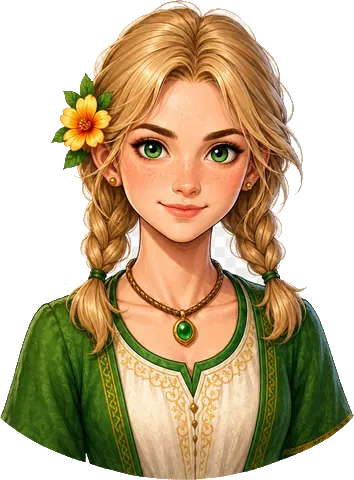
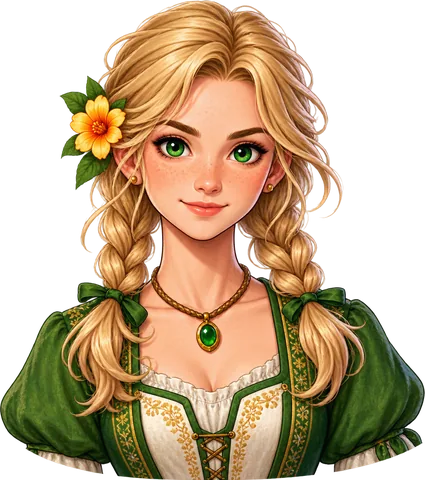
Update Marigold and both orc portraits; fade bust bottoms
New art: Marigold with clean transparency, Brakka as the pot-laden
peddler she is in the text, and Grukha as the grey elder — resolving
the peddler/elder casting properly.

All dialogue portraits now fade out at the bottom via a CSS mask
instead of ending in a hard slice, which fixes the unicorn (whose art
terminates flat mid-neck) and makes every bust blend into the card.

Claude-Session: https://claude.ai/code/session_01GT5TFysXr5RrBqqj59NaVk

diff --git a/game/css/style.css b/game/css/style.css
@@ -188,6 +188,9 @@ html, body {
   margin-bottom: -6px;
   filter: drop-shadow(0 6px 14px rgba(0,0,0,0.55));
   z-index: 1;
+  /* busts fade out at the bottom instead of ending in a hard slice */
+  -webkit-mask-image: linear-gradient(to bottom, #000 72%, transparent 98%);
+  mask-image: linear-gradient(to bottom, #000 72%, transparent 98%);
 }
 .d-panel {
   background: rgba(26,22,18,0.88);

diff --git a/game/sw.js b/game/sw.js
@@ -1,6 +1,6 @@
 /* Consequences service worker — network-first with cache fallback, so
  * updates land immediately when online and the game still runs offline. */
-const CACHE = 'consequences-v16';
+const CACHE = 'consequences-v17';
 const CORE = [
   './',
   'index.html',
